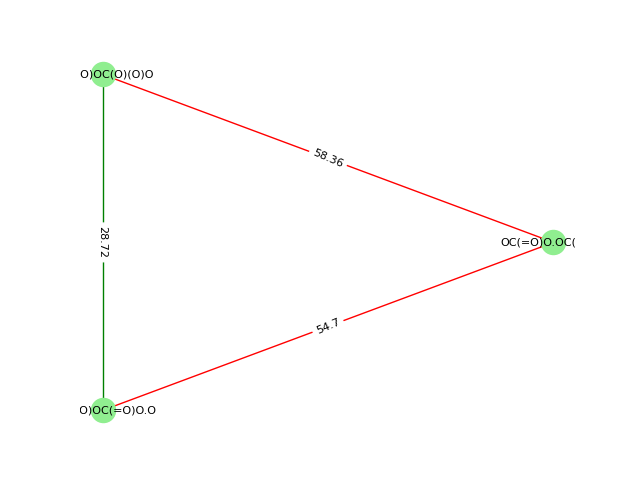
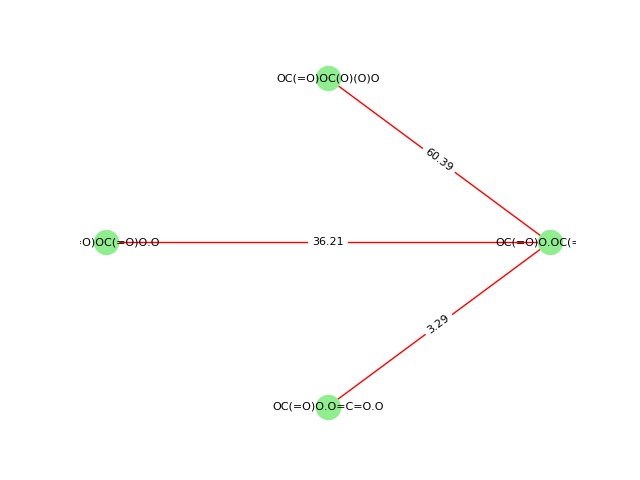
test

diff --git a/script/NetworkDrawer_2.py b/script/NetworkDrawer_2.py
@@ -46,8 +46,8 @@ def draw():
     colors = nx.get_edge_attributes(G,'color').values()
     weights = nx.get_edge_attributes(G,'weight').values()
 
-    pos = nx.circular_layout(G)
-    #pos = nx.spring_layout(G)  # positions for all nodes
+    #pos = nx.circular_layout(G)
+    pos = nx.spring_layout(G)  # positions for all nodes
     nx.draw_networkx_edge_labels(G, pos, edge_labels=_dict, font_size=8)
     nx.draw(G, pos, 
             edge_color=colors, 
@@ -55,7 +55,7 @@ def draw():
             node_color='lightgreen',
             font_size = 8)
     
-    plt.savefig("simple_path.png") # save as png
+    plt.savefig("simple_path_2.png") # save as png
     plt.show()
 
 

diff --git a/database/connect.py b/database/connect.py
@@ -11,7 +11,7 @@ class Connector(object):
         #self.server = 'mongodb://localhost:27017/'
         #self.mongo_db = mongo_db
         self.client = self.connect()
-        self.db = self.client['network']
+        self.db = self.client['twiche']
 
     def connect(self):
         client = MongoClient(self.server, serverSelectionTimeoutMS=2000)

diff --git a/code/ard/main.py b/code/ard/main.py
@@ -171,8 +171,9 @@ def readXYZ(xyz, bonds = None):
              for bond in pb.ob.OBMolBondIter(mol.OBMol)]
         ))
         make_graph(reactant_graph, bond_list= reactant_bonds)
-    
+
     rings = nx.cycle_basis(reactant_graph.graph)
     print(rings)
     raise
+
     return mol_obj, reactant_graph
